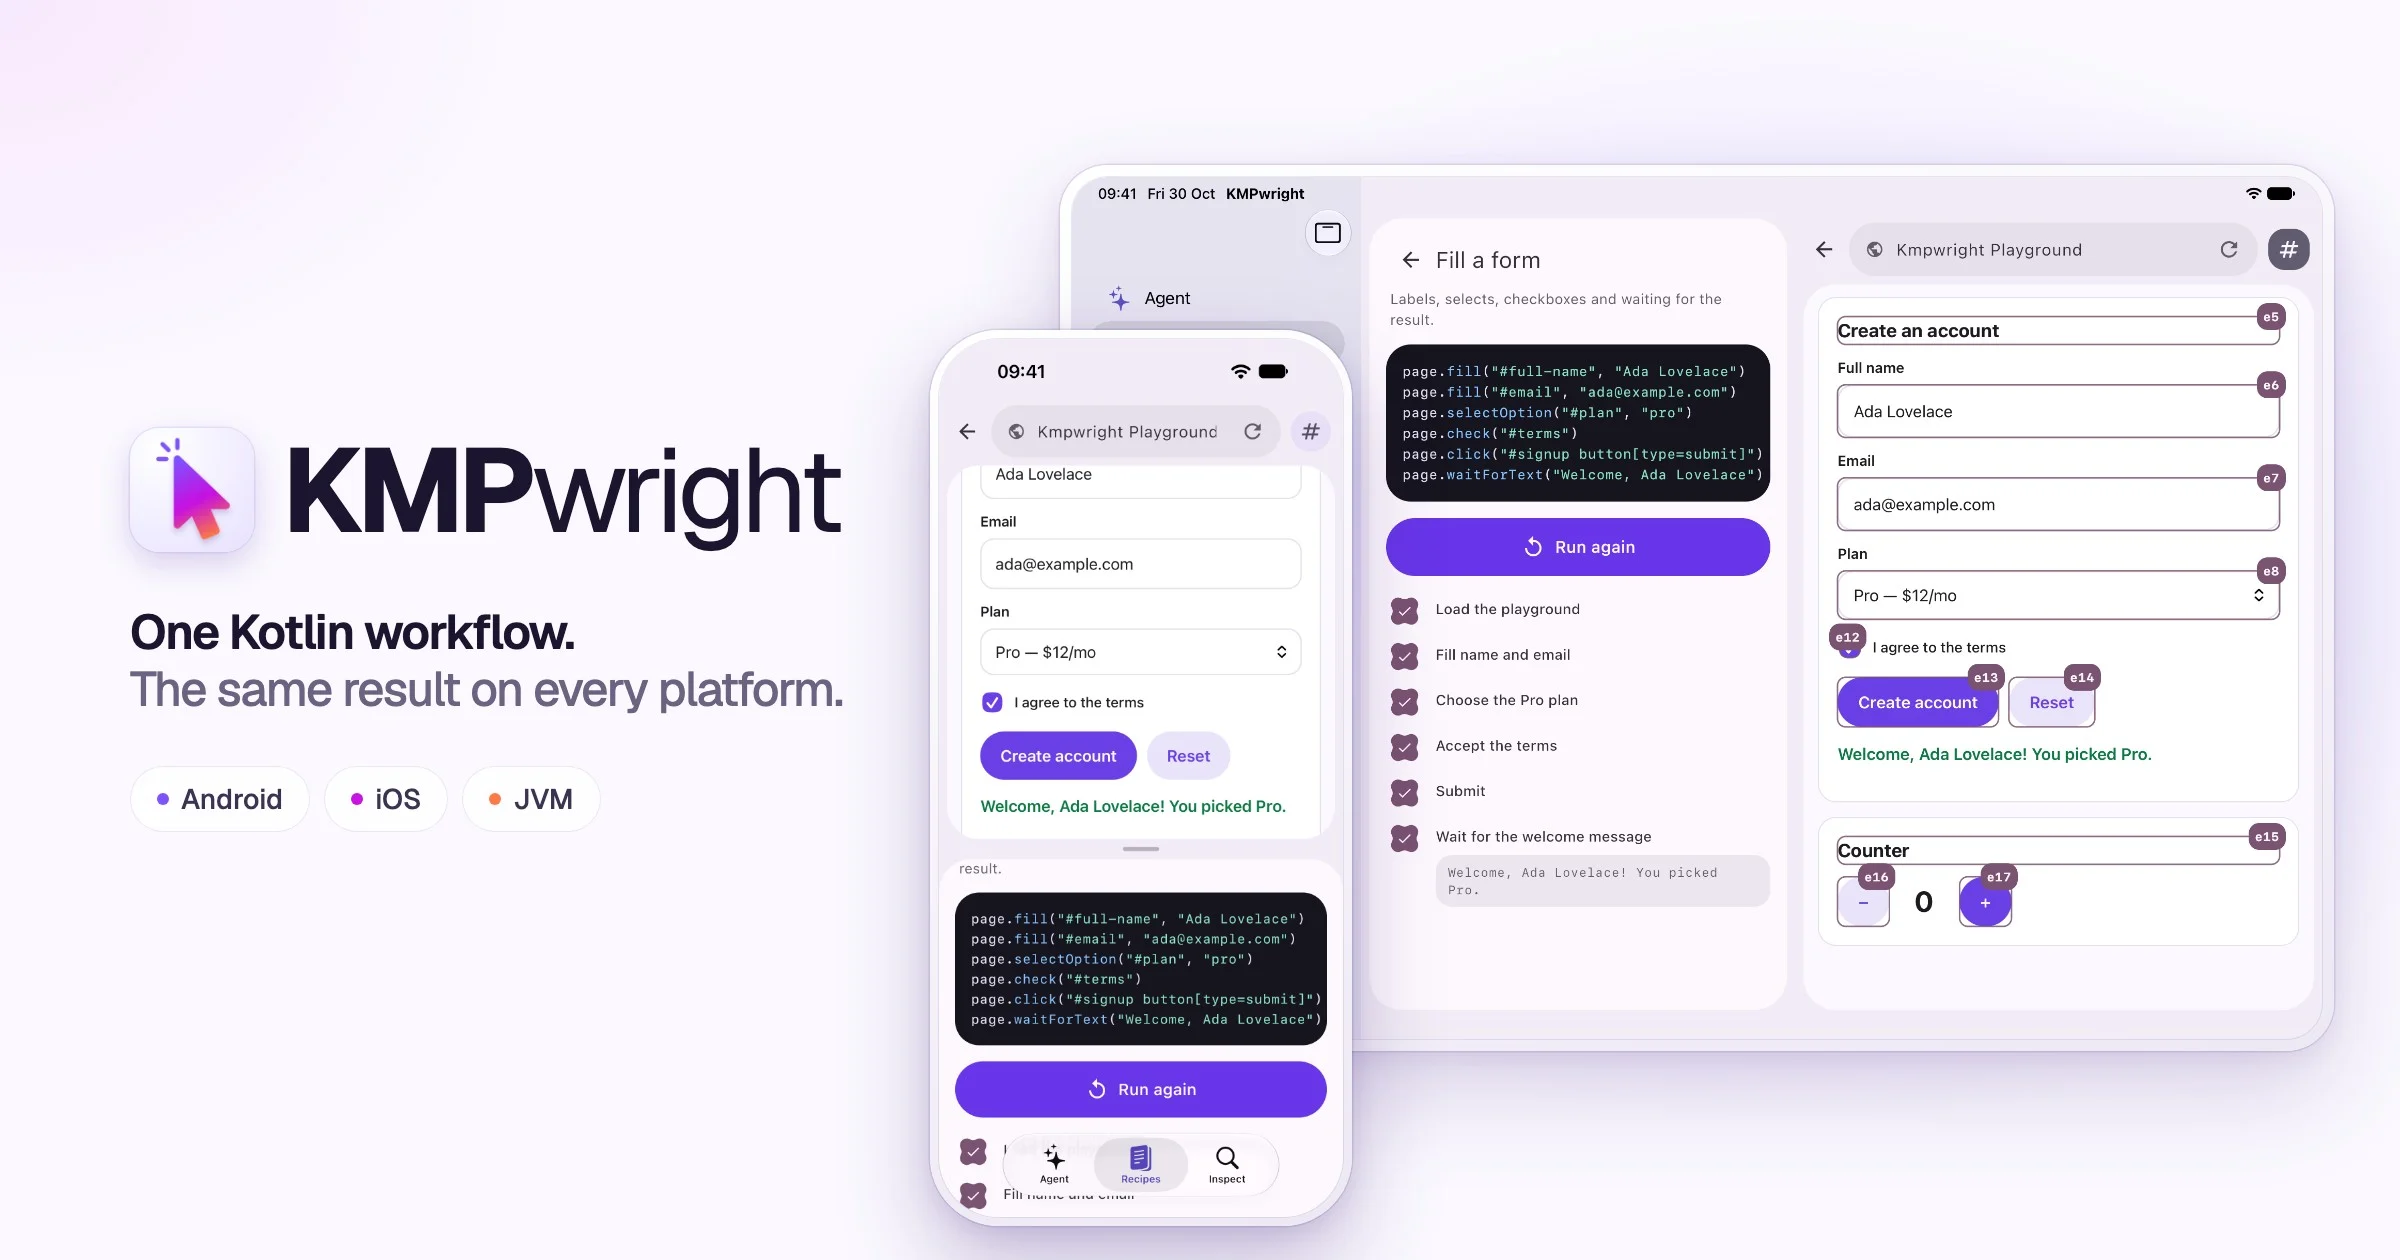
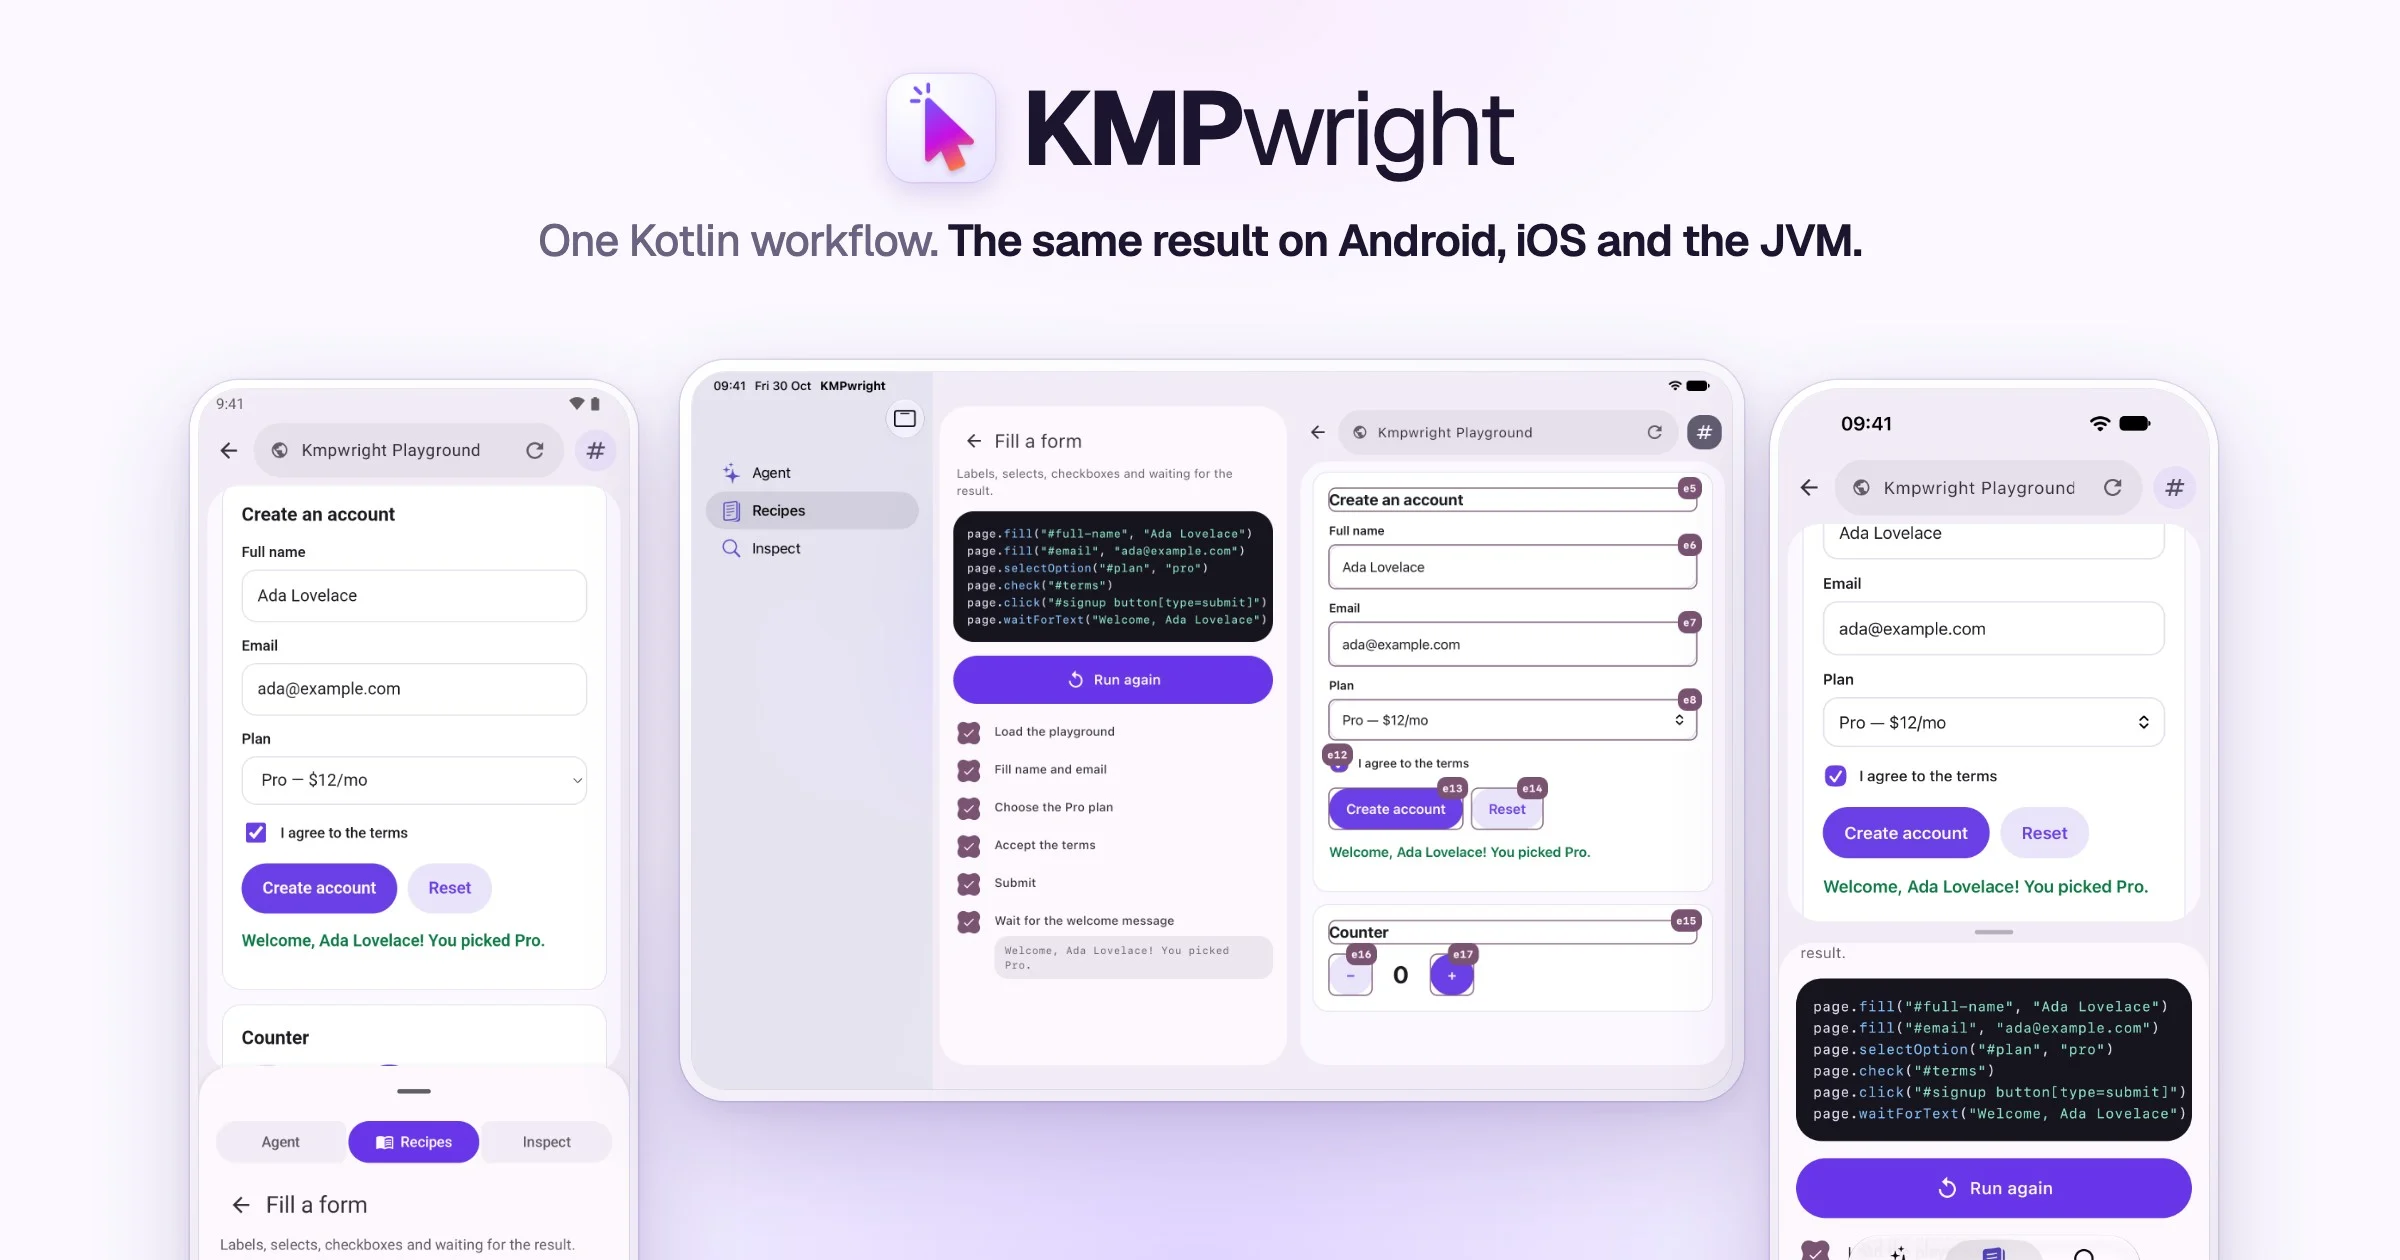
KMPwright header with Android, iPad and iPhone

diff --git a/components/landing/extra-section.tsx b/components/landing/extra-section.tsx
@@ -28,7 +28,7 @@ const libraries: Library[] = [
     icon: "/kmpwright/icon.png",
     image: {
       src: "/kmpwright/header.webp",
-      alt: "One Kotlin workflow, the same finished sign-up form on an iPad and an iPhone",
+      alt: "One Kotlin workflow, the same finished sign-up form on an Android phone, an iPad and an iPhone",
       fill: true,
     },
   },
